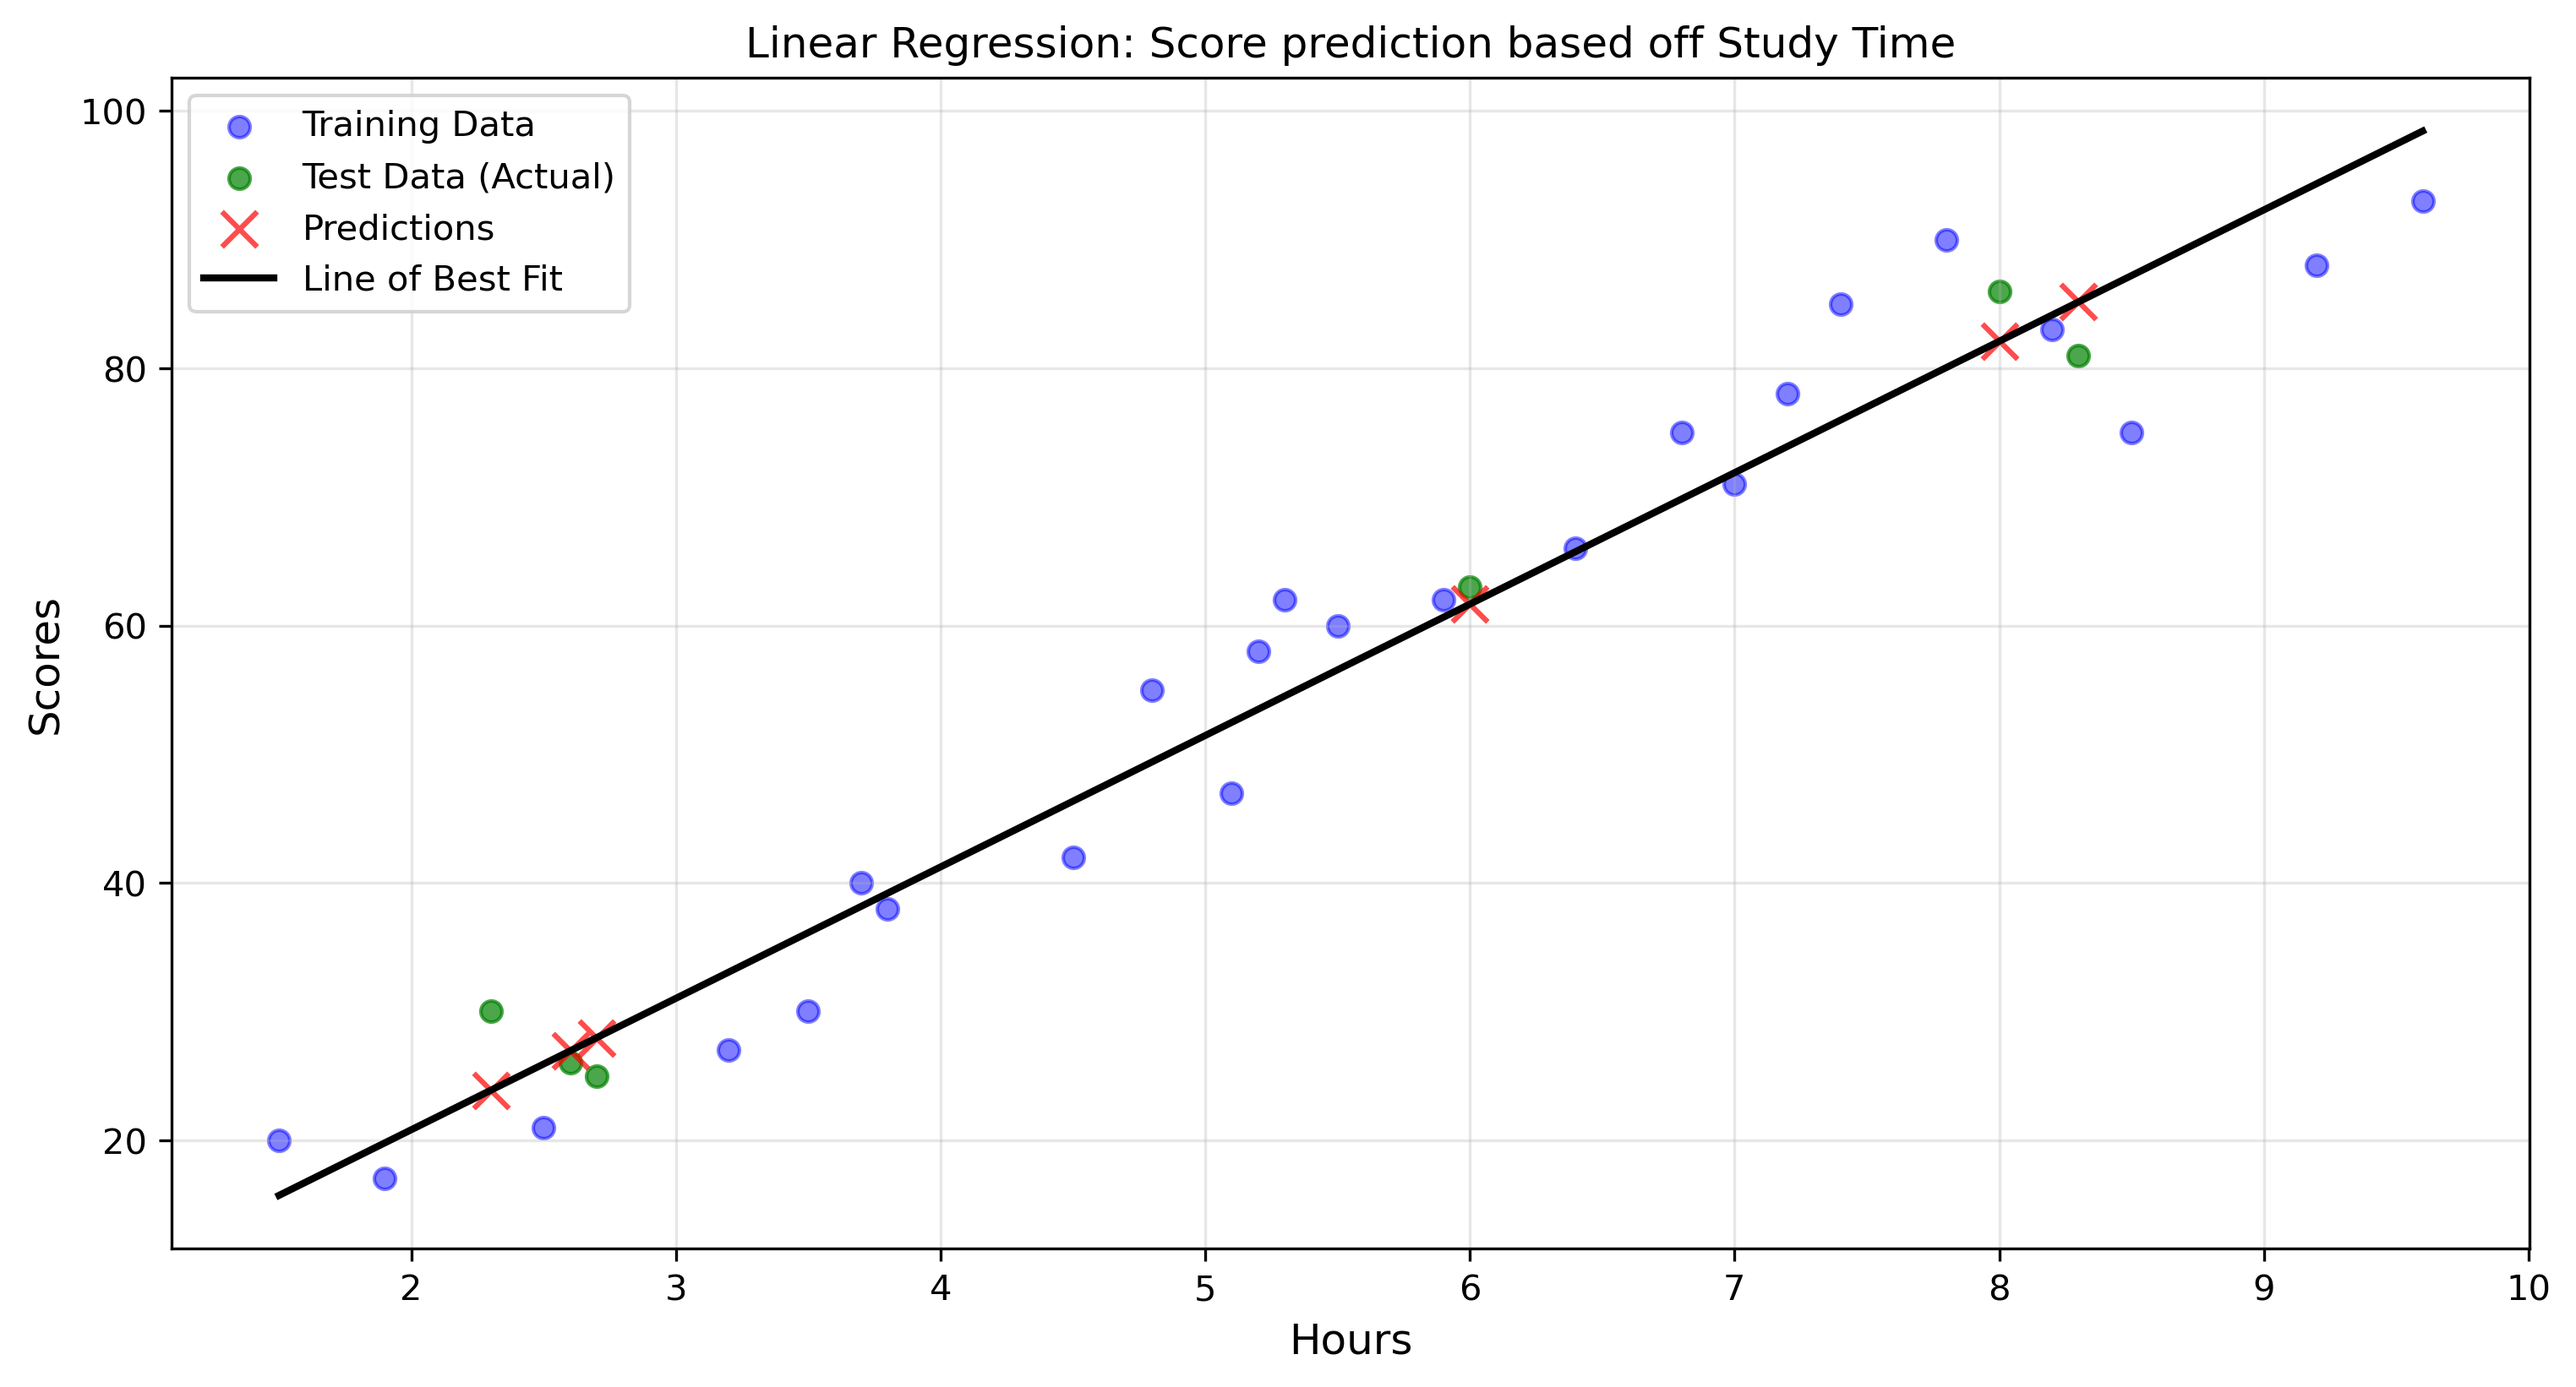
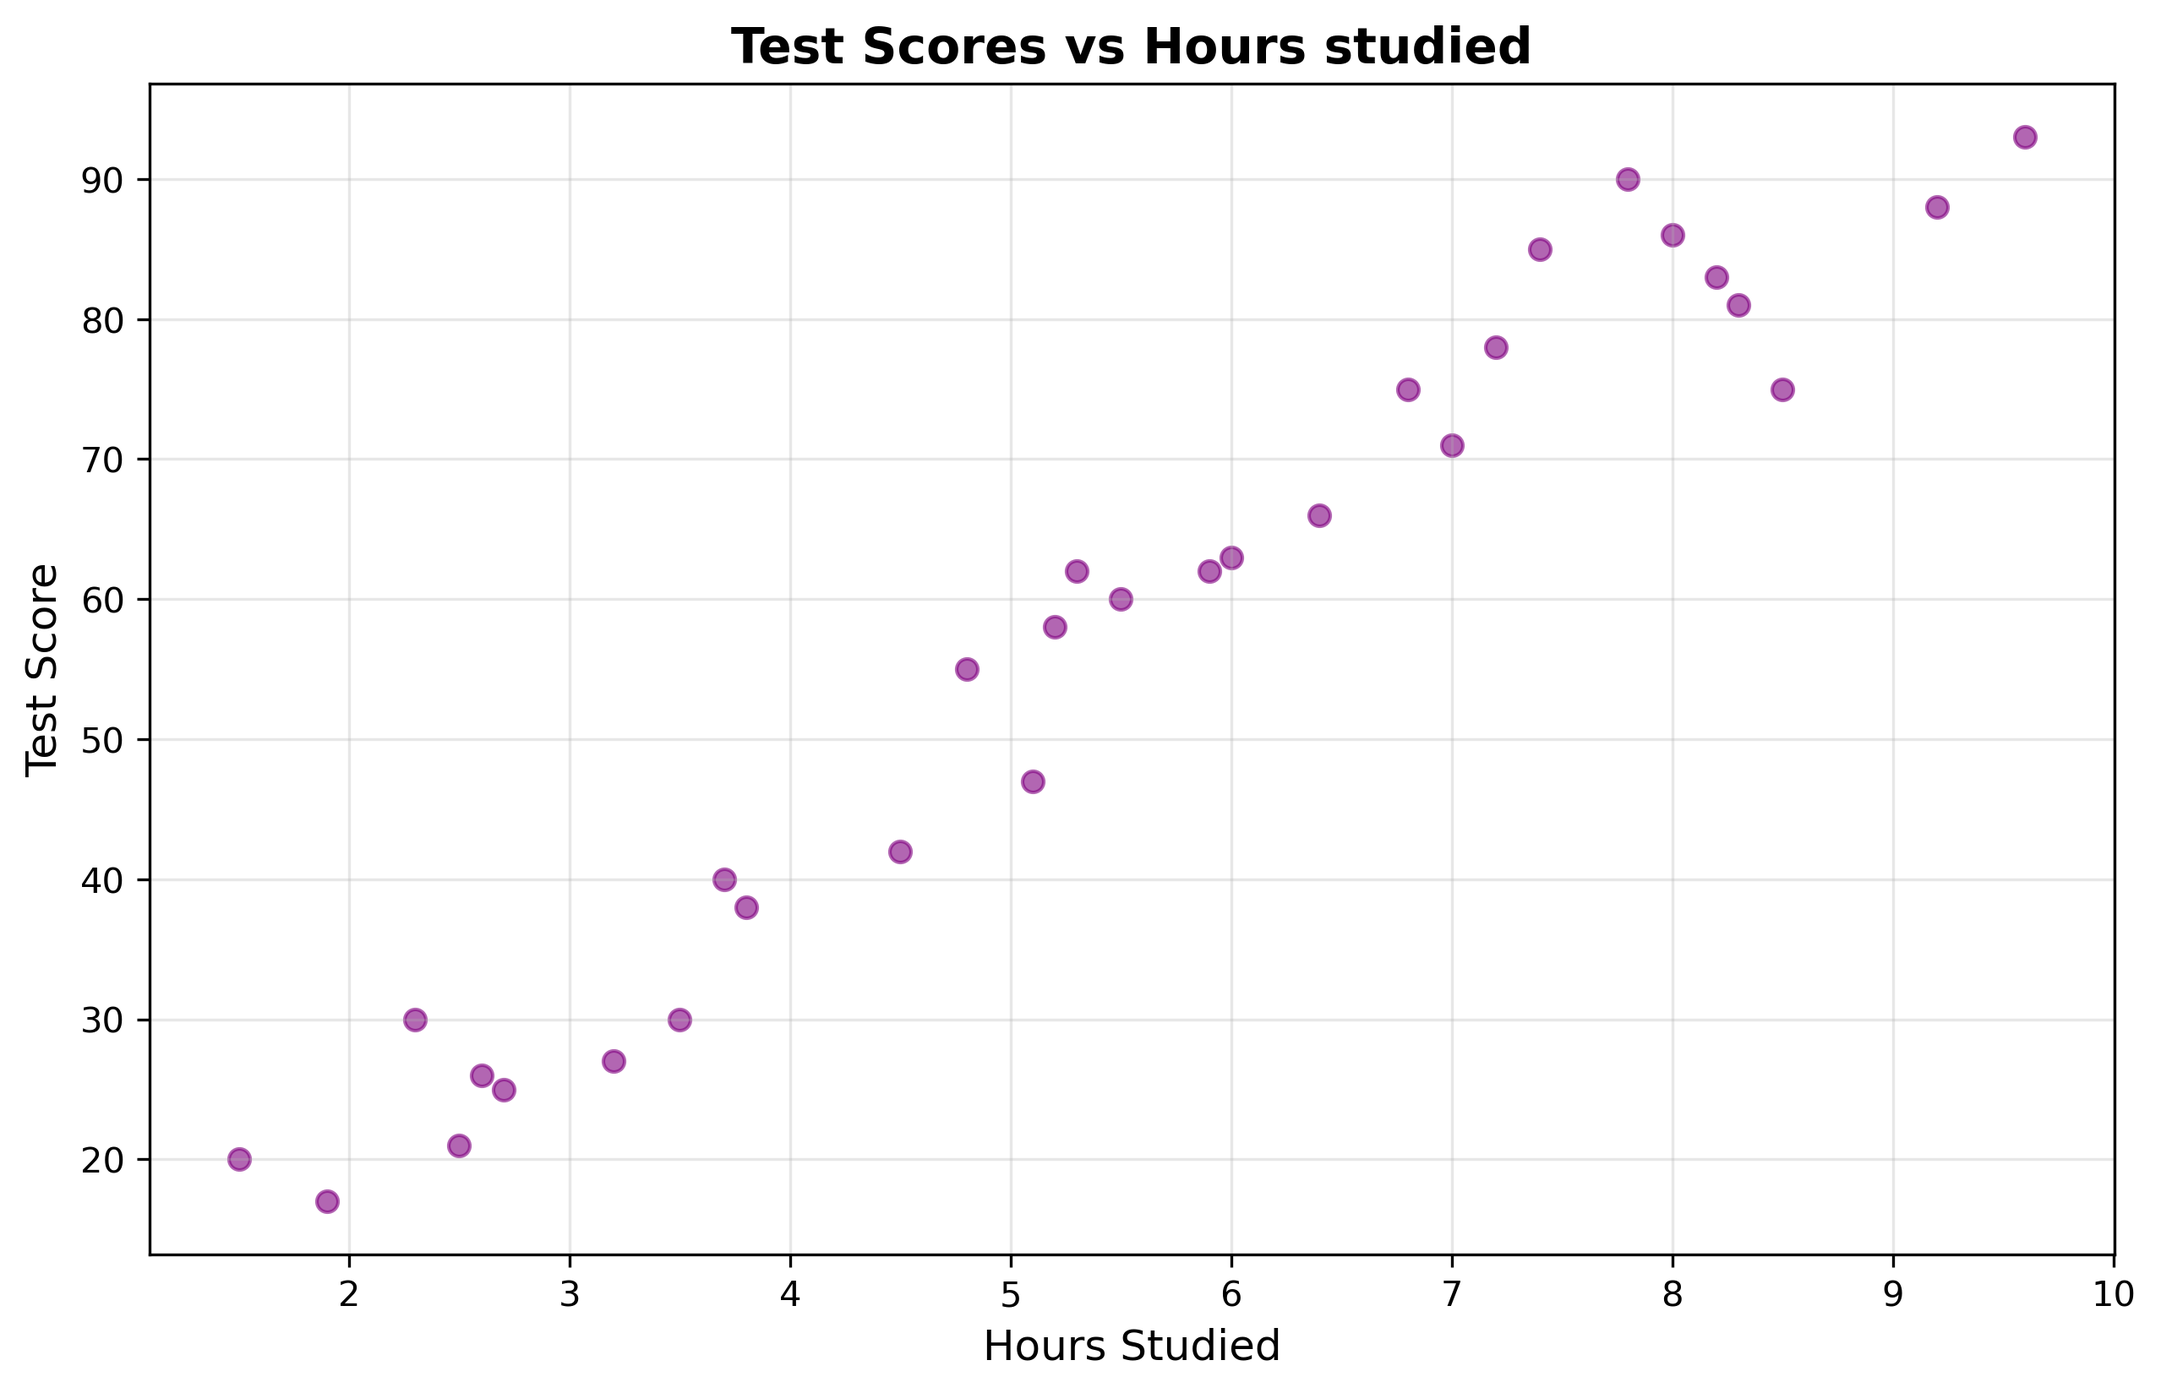
finished writeup and py

diff --git a/a6_part1.py b/a6_part1.py
@@ -1,7 +1,7 @@
 """
 Assignment 6 Part 1: Student Performance Prediction
-Name: Daniel Mazurok
-Date: 11/20/25
+Name: _______________
+Date: _______________
 
 This assignment predicts student test scores based on hours studied.
 Complete all the functions below following the in-class ice cream example.
@@ -26,15 +26,16 @@ def load_and_explore_data(filename):
         pandas DataFrame containing the data
     """
     # TODO: Load the CSV file using pandas
-    data = pd.read_csv(filename)
+    data= pd.read_csv(filename)
     # TODO: Print the first 5 rows
-    print("=== Study Time vs. School Scores ===")
-    # TODO: Print the shape of the dataset (number of rows and columns)
+    print("===Ice cream sales data===")
     print(f"\nFirst 5 rows:")
-    # TODO: Print basic statistics (mean, min, max, etc.)
     print(data.head())
+    # TODO: Print the shape of the dataset (number of rows and columns)
     print(f"\nDataset shape: {data.shape[0]} rows, {data.shape[1]} columns")
-    print(f"\nBasic Stats:")
+
+    # TODO: Print basic statistics (mean, min, max, etc.)
+    print(f"\nBasic statistics:")
     print(data.describe())
     # TODO: Return the dataframe
     return data
@@ -48,24 +49,23 @@ def create_scatter_plot(data):
         data: pandas DataFrame with Hours and Scores columns
     """
     # TODO: Create a figure with size (10, 6)
-    plt.figure(figsize=(10,6))
+    plt.figure(figsize=(10, 6))
     # TODO: Create a scatter plot with Hours on x-axis and Scores on y-axis
     #       Use color='purple' and alpha=0.6
-    plt.scatter(data["Hours"], data["Scores"], color= "purple", alpha= 0.6)
+    plt.scatter(data['Hours'], data['Scores'], color='purple', alpha=0.6)
     # TODO: Add x-axis label: 'Hours Studied'
-    plt.xlabel("Hours Studied", fontsize = 12)
+    plt.xlabel('Hours Studied', fontsize=12)
     # TODO: Add y-axis label: 'Test Score'
-    plt.ylabel("Test Score", fontsize = 12)
+    plt.ylabel('Test Score', fontsize=12)
     # TODO: Add title: 'Student Test Scores vs Hours Studied'
-    plt.title("Student Test Scores vs Hours Studied", fontsize = 12, fontweight= "bold")
+    plt.title('Test Scores vs Hours studied', fontsize=14, fontweight='bold')
     # TODO: Add a grid with alpha=0.3
-    plt.grid(True, alpha = 0.3)
+    plt.grid(True, alpha=0.3)
     # TODO: Save the figure as 'scatter_plot.png' with dpi=300
-    plt.savefig("scatter_plot.png", dpi = 300, bbox_inches = "tight")
+    plt.savefig('scatter_plot.png', dpi=300, bbox_inches='tight')
     # TODO: Show the plot
-    print("\n Scatter plot saved as 'scatter_plot.png")
-    plt.show
-    
+    print("\n✓ Scatter plot saved as 'ice_cream_scatter.png'")
+    plt.show()
 
 
 def split_data(data):
@@ -79,13 +79,15 @@ def split_data(data):
         X_train, X_test, y_train, y_test
     """
     # TODO: Create X with the 'Hours' column (use double brackets to keep as DataFrame)
-    x = data[["Hours"]]
+    X = data[['Hours']]
     # TODO: Create y with the 'Scores' column
-    y = data["Scores"]
+    y = data['Scores'] 
     # TODO: Split the data using train_test_split with test_size=0.2 and random_state=42
-    X_train, X_test, y_train, y_test = train_test_split(x, y, test_size= 0.2, random_state=42)
+    X_train, X_test, y_train, y_test = train_test_split(
+        X, y, test_size=0.2, random_state=42
+    )
     # TODO: Print how many samples are in training and testing sets
-    print(f"\n === Data Split ===")
+    print(f"\n=== Data Split ===")
     print(f"Training set: {len(X_train)} samples")
     print(f"Testing set: {len(X_test)} samples")
     # TODO: Return X_train, X_test, y_train, y_test
@@ -104,14 +106,14 @@ def train_model(X_train, y_train):
         trained LinearRegression model
     """
     # TODO: Create a LinearRegression model
-    model = LinearRegression()
+    model=LinearRegression()
     # TODO: Train the model using .fit()
     model.fit(X_train, y_train)
     # TODO: Print the coefficient (slope) and intercept
-    print(f"\n === Model Training Complete ===")
+    print(f"\n=== Model Training Complete ===")
     print(f"Slope (coefficient): {model.coef_[0]:.2f}")
-    print(f"Intercept: {model.intercept_:2f}")
-    print(f"\n Equation: Hours = {model.coef_[0]:.2f} x Scores + {model.intercept_:2f}")
+    print(f"Intercept: {model.intercept_:.2f}")
+    print(f"\nEquation: Test Scores = {model.coef_[0]:.2f} × Hours studied + {model.intercept_:.2f}")
     # TODO: Return the trained model
     return model
 
@@ -130,6 +132,7 @@ def evaluate_model(model, X_test, y_test):
     """
     # TODO: Make predictions using the model
     predictions = model.predict(X_test)
+
     # TODO: Calculate R² score using r2_score()
     r2 = r2_score(y_test, predictions)
     # TODO: Calculate Mean Squared Error using mean_squared_error()
@@ -137,12 +140,13 @@ def evaluate_model(model, X_test, y_test):
     # TODO: Calculate Root Mean Squared Error (square root of MSE)
     rmse = np.sqrt(mse)
     # TODO: Print all three metrics with clear labels
-    print(f"\n === Model Performance ===")
+    print(f"\n=== Model Performance ===")
     print(f"R² Score: {r2:.4f}")
-    print(f"→ Interpretation: The model explains {r2*100:.2f}% of the variance in scores.")
-    print(f" \n Mean Square Error: ${mse:.2f}")
-    print(f"Root Mean Squared Error: ${rmse:.2f}")
-    print(f" → Interpretation: On average, predictions are off by ${rmse:.2f}")
+    print(f"  → Interpretation: The model explains {r2*100:.2f}% of the variance in test scores")
+    
+    print(f"\nMean Squared Error: {mse:.2f}")
+    print(f"Root Mean Squared Error: {rmse:.2f}")
+    print(f"  → Interpretation: On average, predictions are off by {rmse:.2f}")
     # TODO: Return the predictions
     return predictions
 
@@ -160,32 +164,31 @@ def visualize_results(X_train, y_train, X_test, y_test, predictions, model):
         model: trained model (to plot line of best fit)
     """
     # TODO: Create a figure with size (12, 6)
-    plt.figure(figsize=(12,6))
+    plt.figure(figsize=(12, 6))
     # TODO: Plot training data as blue scatter points with label 'Training Data'
-    plt.scatter(X_train, y_train, color= "blue", alpha= 0.5, label= "Training Data")
+    plt.scatter(X_train, y_train, color='blue', alpha=0.5, label='Training Data')
     # TODO: Plot test data (actual) as green scatter points with label 'Test Data (Actual)'
-    plt.scatter(X_test, y_test, color= "green", alpha=0.7, label= "Test Data (Actual)")
+    plt.scatter(X_test, y_test, color='green', alpha=0.7, label='Test Data (Actual)')
     # TODO: Plot predictions as red X markers with label 'Predictions'
-    plt.scatter(X_test, predictions, color= "red", alpha=0.7, label= "Predictions", marker= "x", s=100)
+    plt.scatter(X_test, predictions, color='red', alpha=0.7, label='Predictions', marker='x', s=100)
     # TODO: Create and plot the line of best fit
     #       Hint: Create a range of X values, predict Y values, then plot as a black line
-    x_range = np.linspace(X_train.min(), X_train.max(), 100).reshape(-1, 1)
-    y_range = model.predict(x_range)
-    plt.plot(x_range, y_range, color= "black", linewidth=2, label= "Line of Best Fit")
+    X_range = np.linspace(X_train.min(), X_train.max(), 100).reshape(-1, 1)
+    y_range = model.predict(X_range)
+    plt.plot(X_range, y_range, color='black', linewidth=2, label='Line of Best Fit')
     # TODO: Add x-axis label, y-axis label, and title
-    plt.xlabel("Hours", fontsize=12)
-    plt.ylabel("Scores", fontsize=12)
-    plt.title("Linear Regression: Score prediction based off Study Time")
+    plt.xlabel('Hours studied', fontsize=12)
+    plt.ylabel('Test scores', fontsize=12)
+    plt.title('Linear Regression: Test scores Prediction', fontsize=14, fontweight='bold') 
     # TODO: Add legend
     plt.legend()
     # TODO: Add grid with alpha=0.3
     plt.grid(True, alpha=0.3)
     # TODO: Save the figure as 'predictions_plot.png' with dpi=300
-    plt.savefig("scatter_plot.png", dpi=300, bbox_inches= "tight")
-    print("\n Predeictions plot saved as 'scatter_plot.png'")
+    plt.savefig('predictions_plot.png', dpi=300, bbox_inches='tight')
     # TODO: Show the plot
+    print("\n✓ Predictions plot saved as 'predictions_plot.png'")
     plt.show()
-
 
 def make_prediction(model, hours):
     """
@@ -199,14 +202,15 @@ def make_prediction(model, hours):
         predicted test score
     """
     # TODO: Reshape hours into the format the model expects: np.array([[hours]])
-    score_array = np.array([[hours]])
+    hour_array = np.array([[hours]])
     # TODO: Make a prediction
-    predicted_score = model.predict(score_array)[0]
+    predicted_scores = model.predict(hour_array)[0]
     # TODO: Print the prediction with a clear message
-    print(f"\n === New Prediction ===")
-    print(f"If hours is {hours} long, predicted score is: ${predicted_score:.2f}")
+    print(f"\n=== New Prediction ===")
+    print(f"If hours studied is {hours}, predicted scores: {predicted_scores:.2f}")
     # TODO: Return the predicted score
-    return predicted_score
+    return predicted_scores
+   
 
 
 if __name__ == "__main__":
@@ -216,7 +220,7 @@ if __name__ == "__main__":
     
     # Step 1: Load and explore the data
     # TODO: Call load_and_explore_data() with 'student_scores.csv'
-    data = load_and_explore_data("student_scores.csv")
+    data = load_and_explore_data('student_scores.csv')
     # Step 2: Visualize the relationship
     # TODO: Call create_scatter_plot() with the data
     create_scatter_plot(data)
@@ -231,10 +235,10 @@ if __name__ == "__main__":
     predictions = evaluate_model(model, X_test, y_test)
     # Step 6: Visualize results
     # TODO: Call visualize_results() with all the necessary arguments
-    visualize_results(X_train, y_train, X_test, y_test, predictions, model)    
+    visualize_results(X_train, y_train, X_test, y_test, predictions, model)
     # Step 7: Make a new prediction
     # TODO: Call make_prediction() for a student who studied 7 hours
-    make_prediction(model, 85)
+    make_prediction(model, 7)
     print("\n" + "=" * 70)
     print("✓ Assignment complete! Check your saved plots.")
     print("Don't forget to complete a6_part1_writeup.md!")

diff --git a/a6_part1_writeup.md b/a6_part1_writeup.md
@@ -11,7 +11,7 @@
 What does the R² score tell you about your model? What does it mean if R² is close to 1? What if it's close to 0?
 
 **YOUR ANSWER:**
-
+It tells us how close the variation of our test scores are. We want R2 to be as close to 1 as possible. When it is closer to 1, there is a strong correlation between studying and test scores.
 
 
 
@@ -22,7 +22,7 @@ What does the MSE (Mean Squared Error) mean in plain English? Why do you think w
 
 **YOUR ANSWER:**
 
-
+MSE is the difference between a predicted value and the plotted value that is on the graph. This can be used to see how accurate a best fit line is. Squaring the errors would better show the distant between the two points.
 
 
 ---
@@ -34,7 +34,7 @@ Would you trust this model to predict a score for a student who studied 10 hours
 
 **YOUR ANSWER:**
 
-
+I personally wouldn't trust this model to predict a score for a student who studied for 10 hours since the max number of studying is 9.5. Since we don't have data for 10 hours of studying there might be some affecting factors. Studying for so long might not show as much improvement towards the end.
 
 
 ---
@@ -49,7 +49,7 @@ Looking at your scatter plot, describe the relationship between hours studied an
 
 **YOUR ANSWER:**
 
-
+The relationship between hours studied and test scores is mostly strong. You can make the scatter plot linear with the best fit line. It is a positive relationship.
 
 
 ---
@@ -58,9 +58,9 @@ Looking at your scatter plot, describe the relationship between hours studied an
 What are some real-world factors that could affect test scores that this model doesn't account for? List at least 3 factors.
 
 **YOUR ANSWER:**
-1. 
-2. 
-3. 
+1. Accessiblity to online resources and textbooks
+2. Environment
+3. Difficulty of class (Honors, AP)
 
 
 ---
@@ -72,7 +72,7 @@ Why do we split our data into training and testing sets? What would happen if we
 
 **YOUR ANSWER:**
 
-
+The reason that we split our data into training and testing sets is to check if the model is able to create a line of best fit and estimate a slope. If we trained and tested on the same data then the model would be correct but also a little unreliable since it has all of our data.   
 
 
 ---
@@ -82,7 +82,7 @@ What was the most challenging part of this assignment for you? How did you overc
 
 **YOUR ANSWER:**
 
-
+In my opinion, finding out how to work the new funcitons was probably the hardest part. I had to do research and use the help of my friends to figure out how to do some of my code. Other than that, I had a good time working on this assignment. 
 
 
 ---
@@ -97,7 +97,9 @@ Describe one real-world problem you could solve with linear regression. What wou
 
 **YOUR ANSWER:**
 
-
+X -> Location and Size of a house
+Y -> House price
+This is linear because house prices tend to have a linear relationship depending on the location and size of a house.
 
 
 ---
